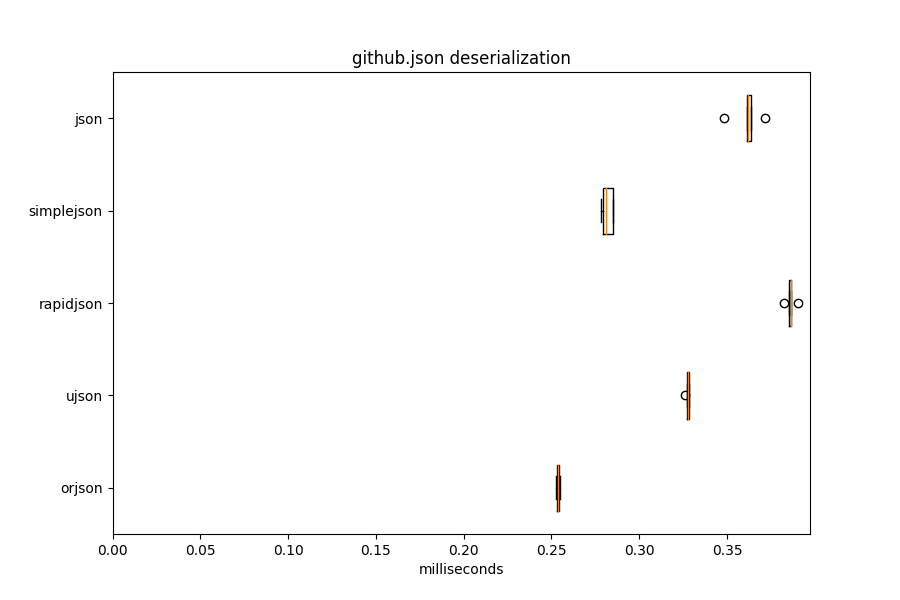
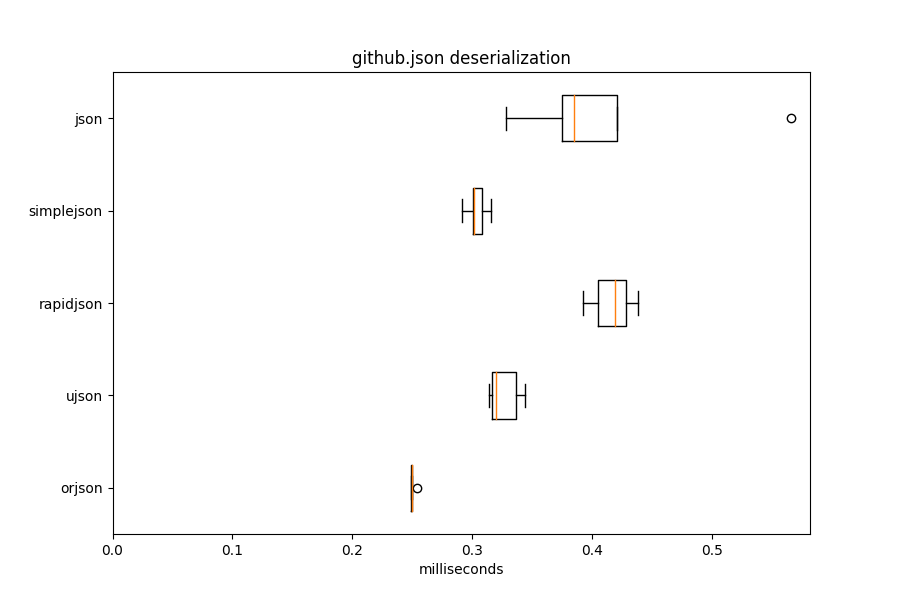
2.1.0

diff --git a/README.md b/README.md
@@ -125,12 +125,12 @@ is raised.
 
 `dumps()` accepts options via an `option` keyword argument. These include:
 
-- `orjson.OPT_SERIALIZE_DATACLASS` to serialize `dataclasses.dataclass`
-instances.
 - `orjson.OPT_NAIVE_UTC` for assuming `datetime.datetime` objects without a
 `tzinfo` are UTC.
 - `orjson.OPT_OMIT_MICROSECONDS` to not serialize the `microseconds` field
 on `datetime.datetime` and `datetime.time` instances.
+- `orjson.OPT_SERIALIZE_DATACLASS` to serialize `dataclasses.dataclass`
+instances.
 - `orjson.OPT_STRICT_INTEGER` for enforcing a 53-bit limit on integers. The
 limit is otherwise 64 bits, the same as the Python standard library.
 - `orjson.OPT_UTC_Z` to serialize a UTC timezone on `datetime.datetime`
@@ -433,81 +433,82 @@ format, containing floats and arrays, indented.
 
 | Library    |   Median latency (milliseconds) |   Operations per second |   Relative (latency) |
 |------------|---------------------------------|-------------------------|----------------------|
-| orjson     |                            0.76 |                  1308.1 |                 1    |
-| ujson      |                            2.14 |                   468   |                 2.8  |
-| rapidjson  |                            2.14 |                   467.5 |                 2.8  |
-| simplejson |                            3.45 |                   289.1 |                 4.52 |
-| json       |                            3.6  |                   277.9 |                 4.71 |
+| orjson     |                            0.75 |                  1297.5 |                 1    |
+| ujson      |                            2.06 |                   483.5 |                 2.74 |
+| rapidjson  |                            2.12 |                   470.7 |                 2.82 |
+| simplejson |                            3.55 |                   275.2 |                 4.73 |
+| json       |                            3.57 |                   277.8 |                 4.75 |
 
 #### twitter.json deserialization
 
 | Library    |   Median latency (milliseconds) |   Operations per second |   Relative (latency) |
 |------------|---------------------------------|-------------------------|----------------------|
-| orjson     |                            2.8  |                   357.9 |                 1    |
-| ujson      |                            3.37 |                   296.1 |                 1.21 |
-| rapidjson  |                            4.48 |                   222.9 |                 1.6  |
-| simplejson |                            3.71 |                   269.3 |                 1.33 |
-| json       |                            4.13 |                   242.3 |                 1.48 |
+| orjson     |                            3.29 |                   302.3 |                 1    |
+| ujson      |                            3.65 |                   281.2 |                 1.11 |
+| rapidjson  |                            5.6  |                   179.1 |                 1.7  |
+| simplejson |                            5.19 |                   188.3 |                 1.58 |
+| json       |                            5.62 |                   184.2 |                 1.71 |
 
 #### github.json serialization
 
 | Library    |   Median latency (milliseconds) |   Operations per second |   Relative (latency) |
 |------------|---------------------------------|-------------------------|----------------------|
-| orjson     |                            0.08 |                 12430.9 |                 1    |
-| ujson      |                            0.21 |                  4774.2 |                 2.6  |
-| rapidjson  |                            0.23 |                  4350.4 |                 2.87 |
-| simplejson |                            0.44 |                  2290.5 |                 5.42 |
-| json       |                            0.36 |                  2786.8 |                 4.46 |
+| orjson     |                            0.08 |                 12363.5 |                 1    |
+| ujson      |                            0.2  |                  4834.3 |                 2.55 |
+| rapidjson  |                            0.23 |                  4385.4 |                 2.84 |
+| simplejson |                            0.42 |                  2360.3 |                 5.28 |
+| json       |                            0.36 |                  2709.1 |                 4.53 |
 
 #### github.json deserialization
 
 | Library    |   Median latency (milliseconds) |   Operations per second |   Relative (latency) |
 |------------|---------------------------------|-------------------------|----------------------|
-| orjson     |                            0.25 |                  3939.5 |                 1    |
-| ujson      |                            0.33 |                  3053.2 |                 1.29 |
-| rapidjson  |                            0.39 |                  2589.7 |                 1.52 |
-| simplejson |                            0.28 |                  3549.6 |                 1.11 |
-| json       |                            0.36 |                  2767.7 |                 1.43 |
+| orjson     |                            0.25 |                  3992.4 |                 1    |
+| ujson      |                            0.32 |                  3065.1 |                 1.28 |
+| rapidjson  |                            0.42 |                  2400.2 |                 1.68 |
+| simplejson |                            0.3  |                  3293.5 |                 1.21 |
+| json       |                            0.38 |                  2410   |                 1.54 |
 
 #### citm_catalog.json serialization
 
 | Library    |   Median latency (milliseconds) |   Operations per second |   Relative (latency) |
 |------------|---------------------------------|-------------------------|----------------------|
-| orjson     |                            1.17 |                   856   |                 1    |
-| ujson      |                            3.65 |                   273   |                 3.11 |
-| rapidjson  |                            3.45 |                   274.1 |                 2.94 |
-| simplejson |                           14.67 |                    68.2 |                12.5  |
-| json       |                            8.19 |                   122.2 |                 6.98 |
+| orjson     |                            1.27 |                   746.2 |                 1    |
+| ujson      |                            3.63 |                   257.1 |                 2.86 |
+| rapidjson  |                            3.52 |                   279.8 |                 2.77 |
+| simplejson |                           14.37 |                    66.6 |                11.31 |
+| json       |                            8.28 |                   120.2 |                 6.52 |
 
 #### citm_catalog.json deserialization
 
 | Library    |   Median latency (milliseconds) |   Operations per second |   Relative (latency) |
 |------------|---------------------------------|-------------------------|----------------------|
-| orjson     |                            5.62 |                   178   |                 1    |
-| ujson      |                            6.76 |                   148.3 |                 1.2  |
-| rapidjson  |                            7.65 |                   129   |                 1.36 |
-| simplejson |                            9.05 |                   110.4 |                 1.61 |
-| json       |                            8.24 |                   120.8 |                 1.47 |
+| orjson     |                            5.61 |                   175.8 |                 1    |
+| ujson      |                            6.78 |                   146.8 |                 1.21 |
+| rapidjson  |                            7.71 |                   129.4 |                 1.37 |
+| simplejson |                            9.01 |                   108.8 |                 1.61 |
+| json       |                            8.49 |                   116.1 |                 1.51 |
 
 #### canada.json serialization
 
 | Library    |   Median latency (milliseconds) |   Operations per second |   Relative (latency) |
 |------------|---------------------------------|-------------------------|----------------------|
-| orjson     |                            7.58 |                   138.6 |                 1    |
+| orjson     |                            5.28 |                   189.6 |                 1    |
 | ujson      |                                 |                         |                      |
-| rapidjson  |                           73.02 |                    13.7 |                 9.64 |
-| simplejson |                          101.21 |                     9.8 |                13.36 |
-| json       |                           91.45 |                    11.5 |                12.07 |
+| rapidjson  |                           69.38 |                    14.3 |                13.14 |
+| simplejson |                           99.43 |                     9.4 |                18.84 |
+| json       |                           76.44 |                    12.9 |                14.48 |
 
 #### canada.json deserialization
 
 | Library    |   Median latency (milliseconds) |   Operations per second |   Relative (latency) |
 |------------|---------------------------------|-------------------------|----------------------|
-| orjson     |                           22.89 |                    43.8 |                 1    |
+| orjson     |                           22.22 |                    45.1 |                 1    |
 | ujson      |                                 |                         |                      |
-| rapidjson  |                           47.18 |                    21.3 |                 2.06 |
-| simplejson |                           44.41 |                    22.5 |                 1.94 |
-| json       |                           43.72 |                    22.9 |                 1.91 |
+| rapidjson  |                           44.56 |                    21.4 |                 2.01 |
+| simplejson |                           42.99 |                    23.2 |                 1.93 |
+| json       |                           44.69 |                    21.4 |                 2.01 |
+
 
 If a row is blank, the library did not serialize and deserialize the fixture without
 modifying it, e.g., returning different values for floating point numbers.
@@ -525,45 +526,45 @@ calling `loads()` on the fixture.
 
 | Library    |   import, read() RSS (MiB) |   loads() increase in RSS (MiB) |
 |------------|----------------------------|---------------------------------|
-| orjson     |                       12.8 |                             2.7 |
+| orjson     |                       12.9 |                             2.8 |
 | ujson      |                       12.8 |                             4.6 |
-| rapidjson  |                       14.3 |                             6.4 |
-| simplejson |                       13   |                             2.8 |
-| json       |                       12.3 |                             2.5 |
+| rapidjson  |                       14.5 |                             6.5 |
+| simplejson |                       13.1 |                             2.7 |
+| json       |                       12.5 |                             2.4 |
 
 #### github.json
 
 | Library    |   import, read() RSS (MiB) |   loads() increase in RSS (MiB) |
 |------------|----------------------------|---------------------------------|
 | orjson     |                       12.3 |                             0.3 |
-| ujson      |                       12.4 |                             0.5 |
-| rapidjson  |                       13.8 |                             0.5 |
-| simplejson |                       12.4 |                             0.3 |
+| ujson      |                       12.6 |                             0.5 |
+| rapidjson  |                       13.9 |                             0.4 |
+| simplejson |                       12.5 |                             0.3 |
 | json       |                       11.7 |                             0.3 |
 
 #### citm_catalog.json
 
 | Library    |   import, read() RSS (MiB) |   loads() increase in RSS (MiB) |
 |------------|----------------------------|---------------------------------|
-| orjson     |                       13.9 |                             8.3 |
-| ujson      |                       13.8 |                            12   |
-| rapidjson  |                       15.5 |                            20.3 |
-| simplejson |                       14.1 |                            21.8 |
-| json       |                       13.4 |                            20.2 |
+| orjson     |                       13.7 |                             8.5 |
+| ujson      |                       13.9 |                            12   |
+| rapidjson  |                       15.4 |                            30.2 |
+| simplejson |                       14.1 |                            25   |
+| json       |                       13.5 |                            24.9 |
 
 #### canada.json
 
-| Library    |   import, read() RSS (MiB) |   loads() increase in RSS (MiB) |
+| Library    | import, read() RSS (MiB)   | loads() increase in RSS (MiB)   |
 |------------|----------------------------|---------------------------------|
-| orjson     |                       16.5 |                            17.5 |
+| orjson     | 16.5                       | 17.5                            |
 | ujson      |                            |                                 |
-| rapidjson  |                       17.8 |                            19.8 |
-| simplejson |                       16.5 |                            21.3 |
-| json       |                       16.1 |                            21.3 |
+| rapidjson  | 17.9                       | 19.6                            |
+| simplejson | 16.6                       | 21.3                            |
+| json       | 16.0                       | 21.3                            |
 
 ### Reproducing
 
-The above was measured using Python 3.7.4 on Linux with orjson 2.0.10,
+The above was measured using Python 3.7.4 on Linux with orjson 2.1.0,
 ujson 1.35, python-rapidson 0.8.0, and simplejson 3.16.0.
 
 The latency results can be reproduced using the `pybench` and `graph`

diff --git a/CHANGELOG.md b/CHANGELOG.md
@@ -1,5 +1,23 @@
 # Changelog
 
+## 2.1.0 - 2019-10-24
+
+### Added
+
+- `orjson.dumps()` serializes `dataclasses.dataclass` instances if
+`option=orjson.OPT_SERIALIZE_DATACLASS` is specified.
+- `orjson.dumps()` accepts `orjson.OPT_UTC_Z` to serialize UTC as "Z" instead
+of "+00:00".
+- `orjson.dumps()` accepts `orjson.OPT_OMIT_MICROSECONDS` to not serialize
+the `microseconds` attribute of `datetime.datetime` and `datetime.time`
+instances.
+- `orjson.loads()` accepts `bytearray`.
+
+### Changed
+
+- Drop support for Python 3.5.
+- Publish `manylinux2010` wheels instead of `manylinux1`.
+
 ## 2.0.11 - 2019-10-01
 
 ### Changed
